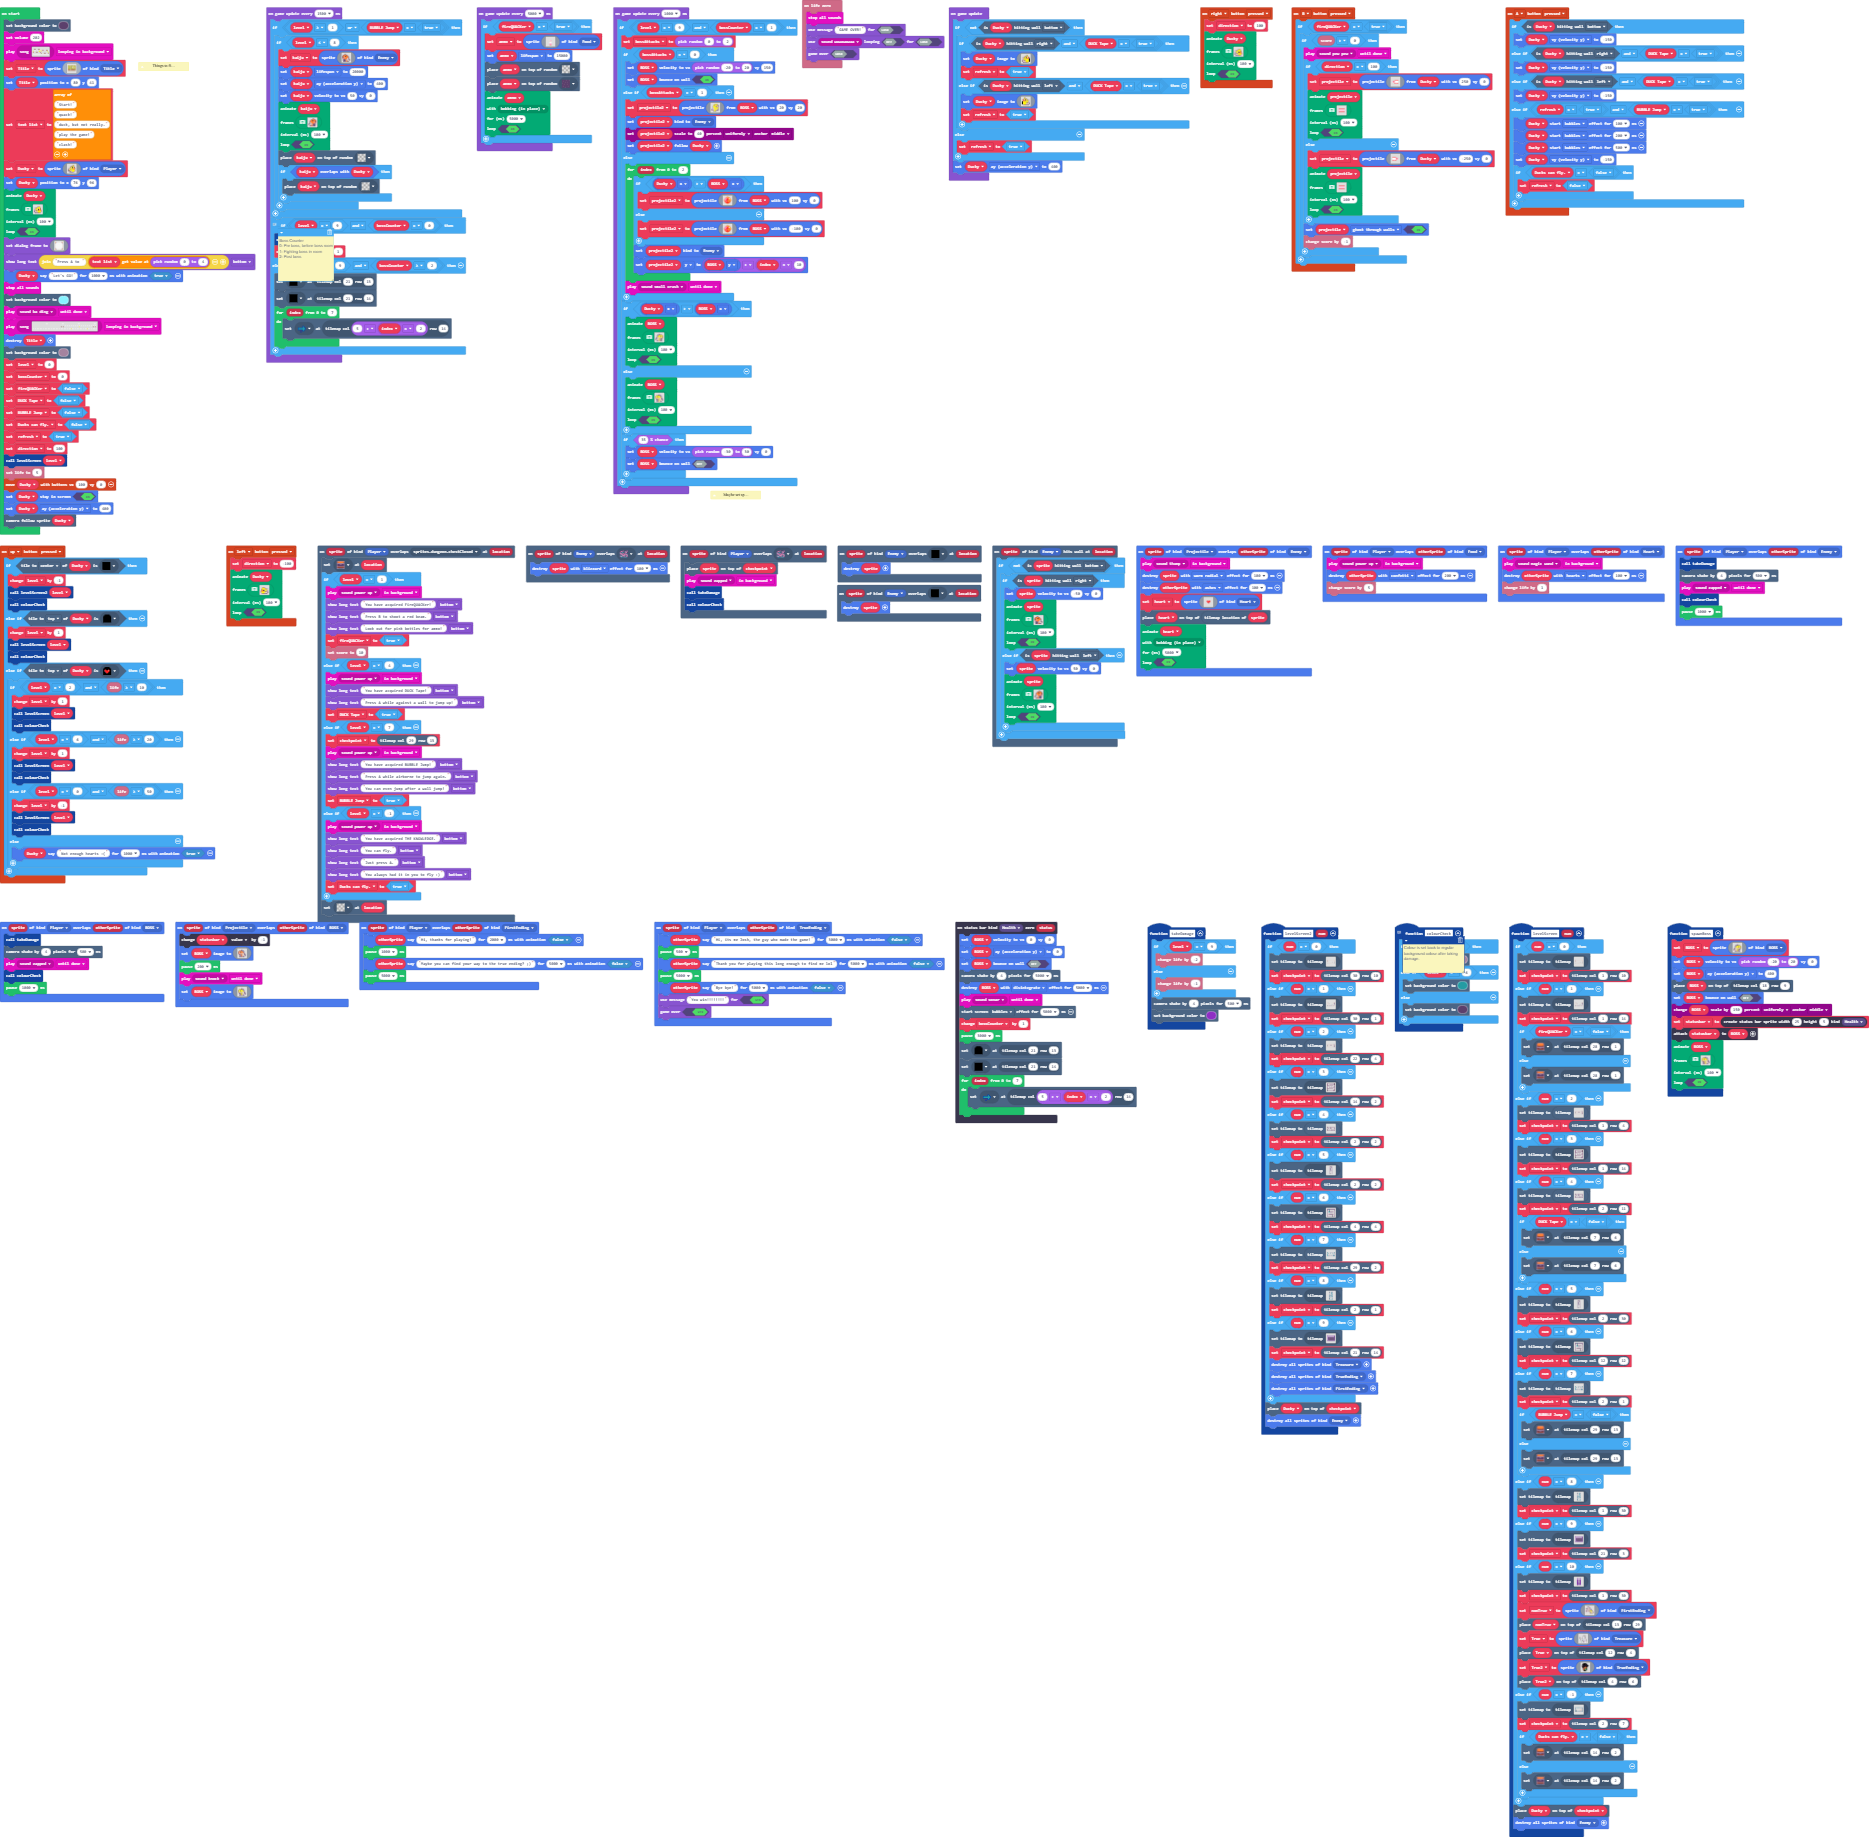
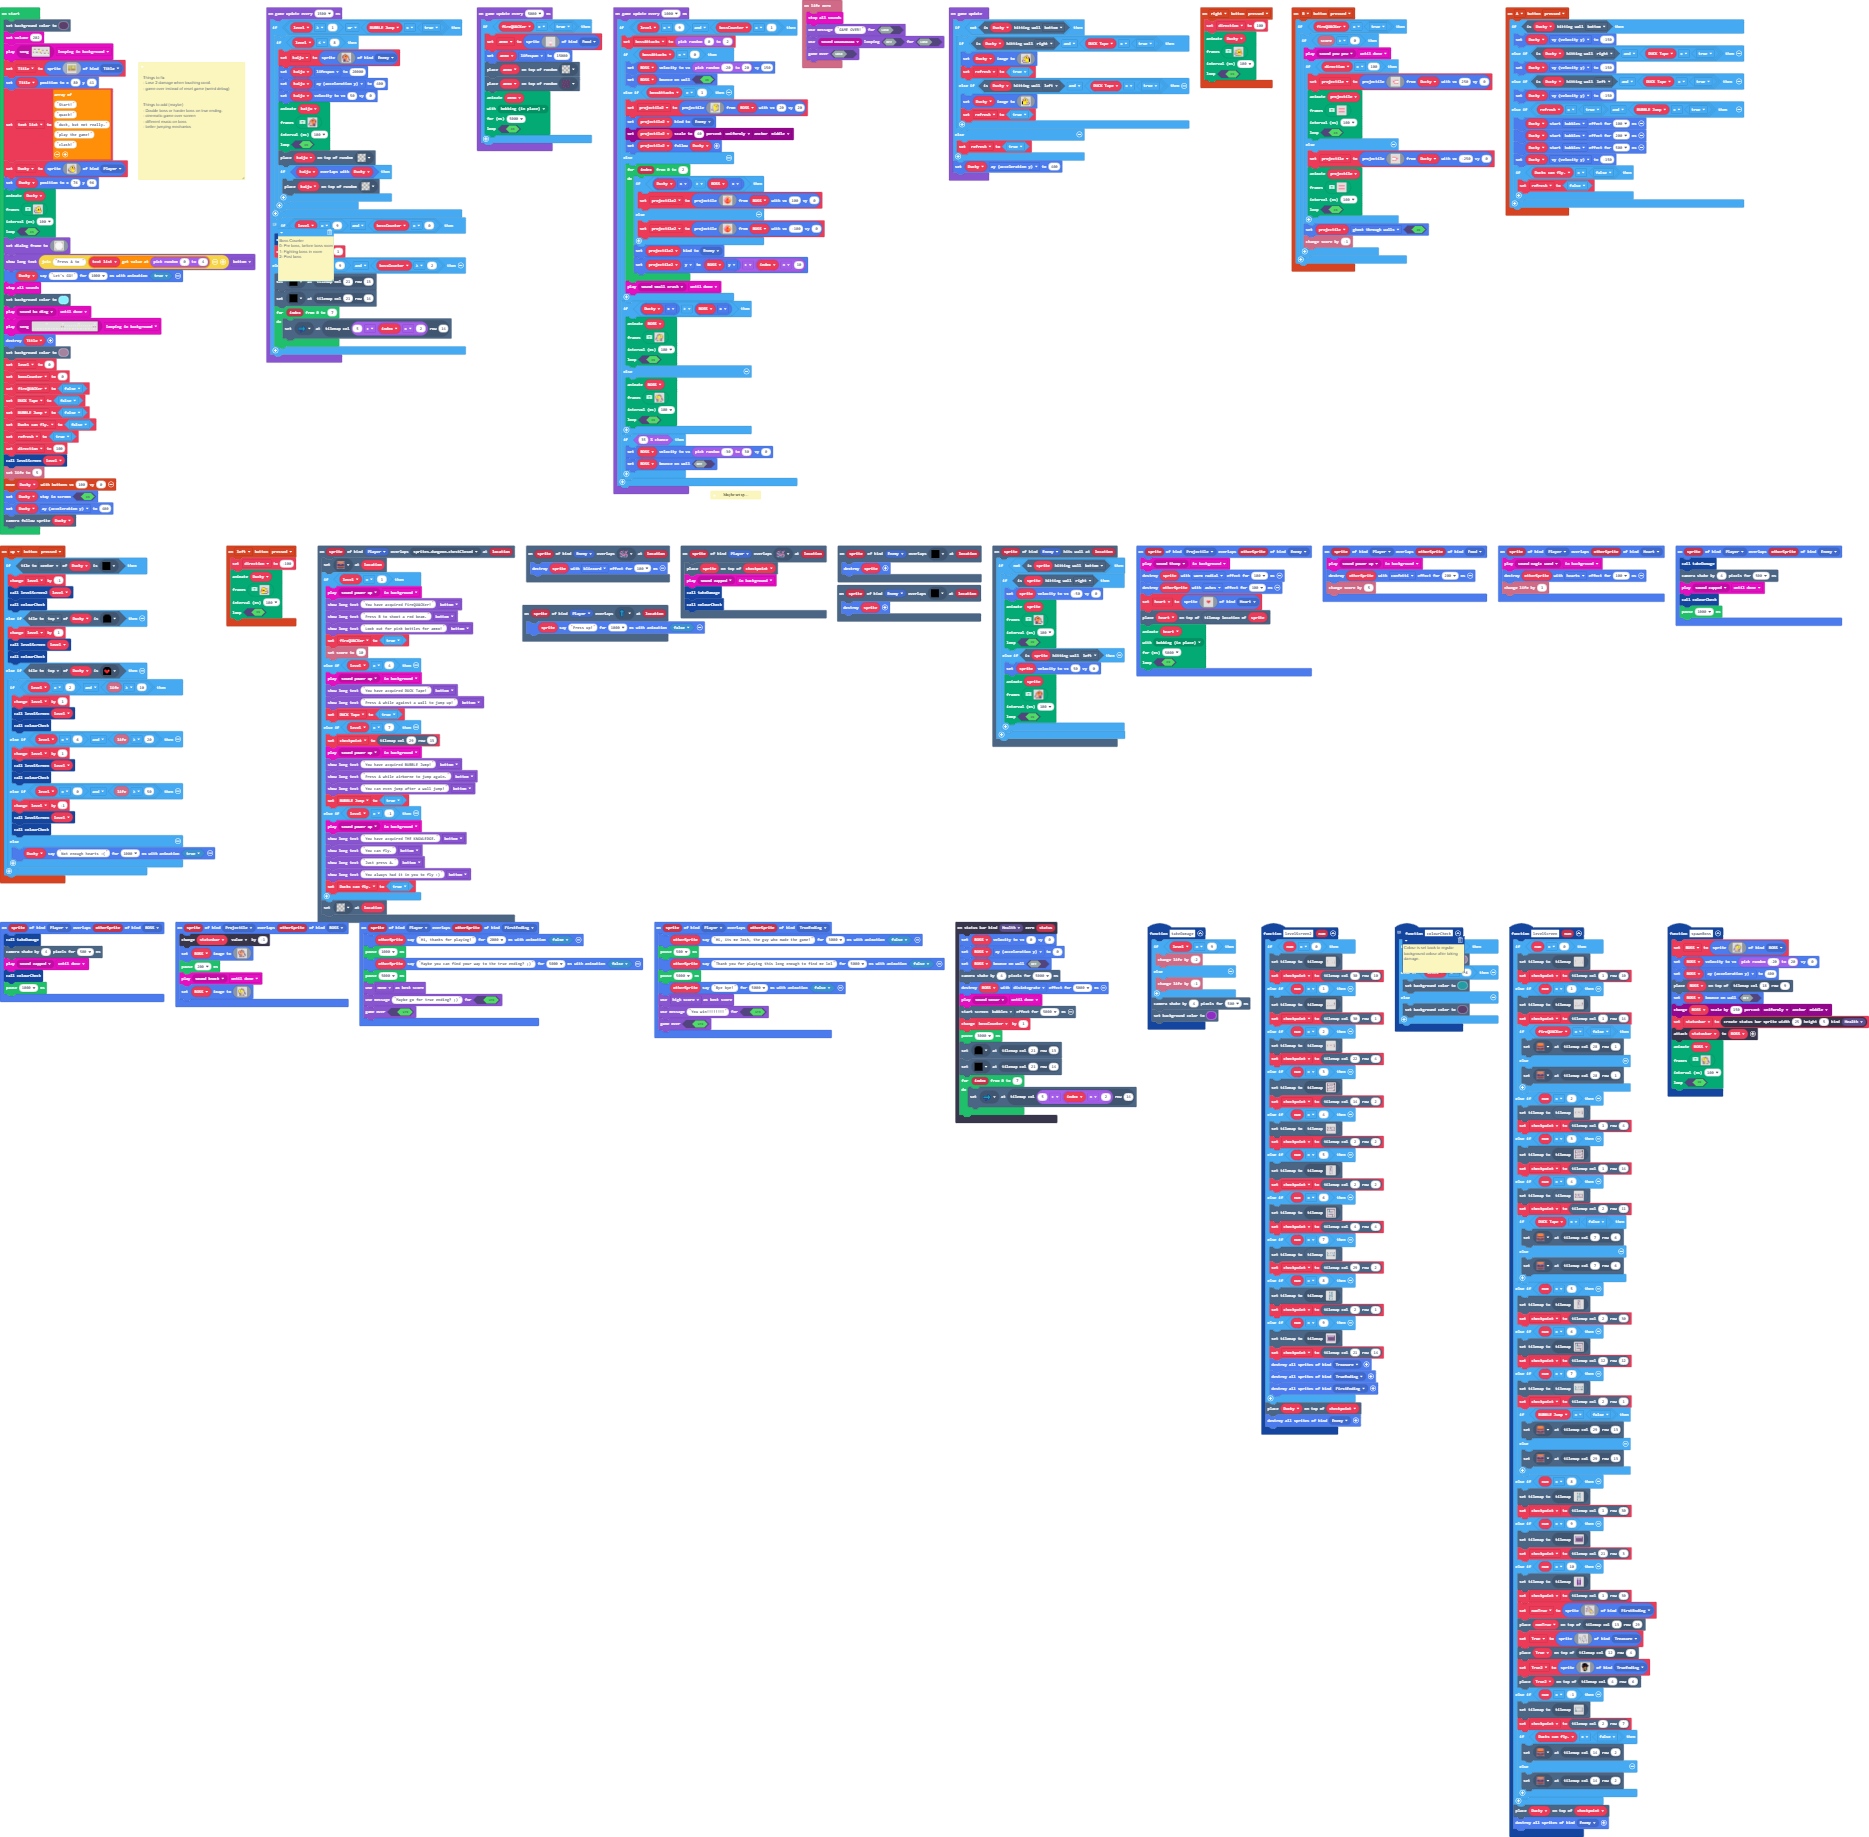
added high score options

diff --git a/main.ts b/main.ts
@@ -670,6 +670,9 @@ sprites.onOverlap(SpriteKind.Player, SpriteKind.FirstEnding, function (sprite, o
     pause(1000)
     otherSprite.sayText("Maybe you can find your way to the true ending? ;)", 5000, false)
     pause(5000)
+    game.setGameOverScoringType(game.ScoringType.None)
+    game.setGameOverMessage(true, "Maybe go for true ending? ;)")
+    game.gameOver(true)
 })
 function takeDamage () {
     if (level == 9) {
@@ -1073,12 +1076,16 @@ controller.right.onEvent(ControllerButtonEvent.Pressed, function () {
     true
     )
 })
+scene.onOverlapTile(SpriteKind.Player, assets.tile`myTile17`, function (sprite, location) {
+    sprite.sayText("Press up!", 1000, false)
+})
 sprites.onOverlap(SpriteKind.Player, SpriteKind.TrueEnding, function (sprite, otherSprite) {
     otherSprite.sayText("Hi, its me Josh, the guy who made the game!", 3000, false)
     pause(500)
     otherSprite.sayText("Thank you for playing this long enough to find me lol", 5000, false)
     pause(5000)
     otherSprite.sayText("Bye bye!", 5000, false)
+    game.setGameOverScoringType(game.ScoringType.HighScore)
     game.setGameOverMessage(true, "You win!!!!!!!!")
     game.gameOver(true)
 })
